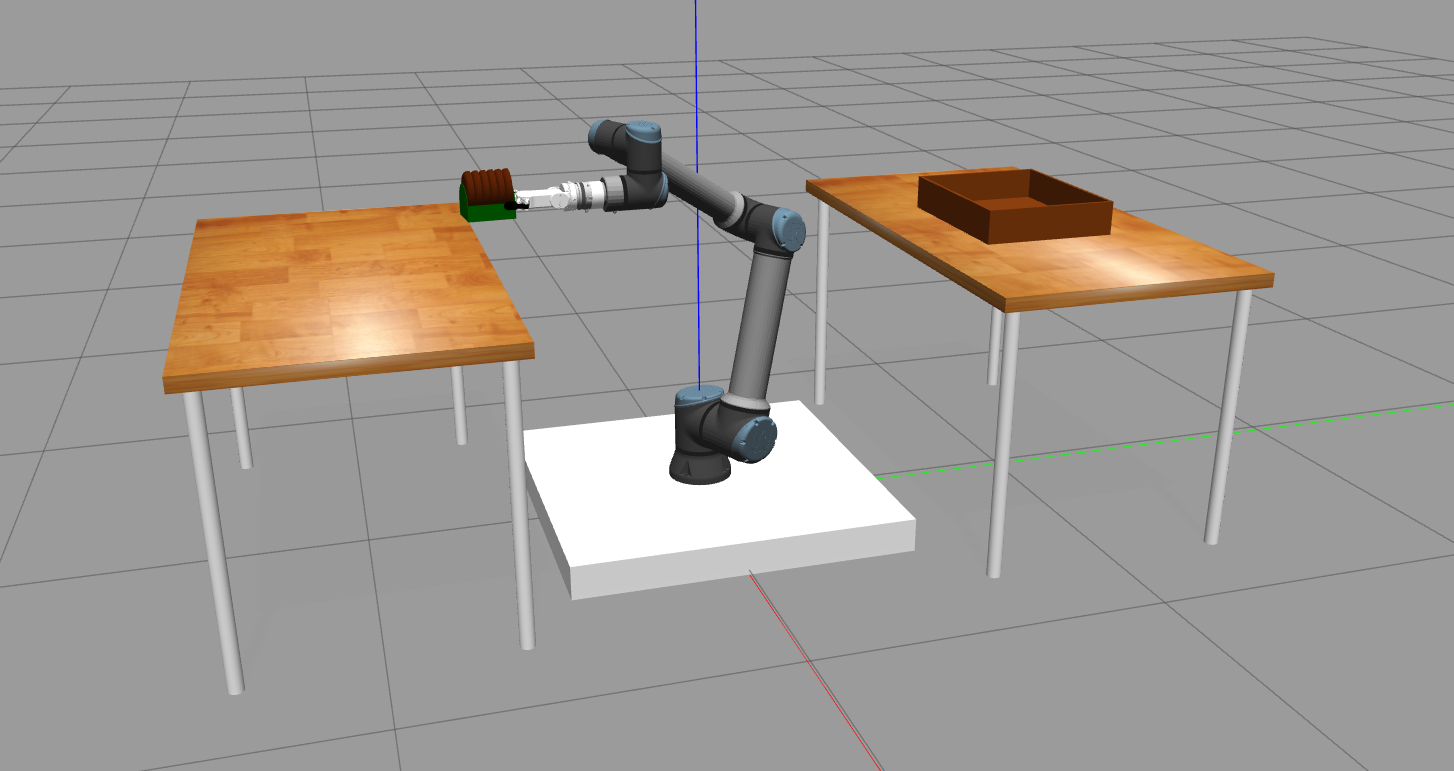
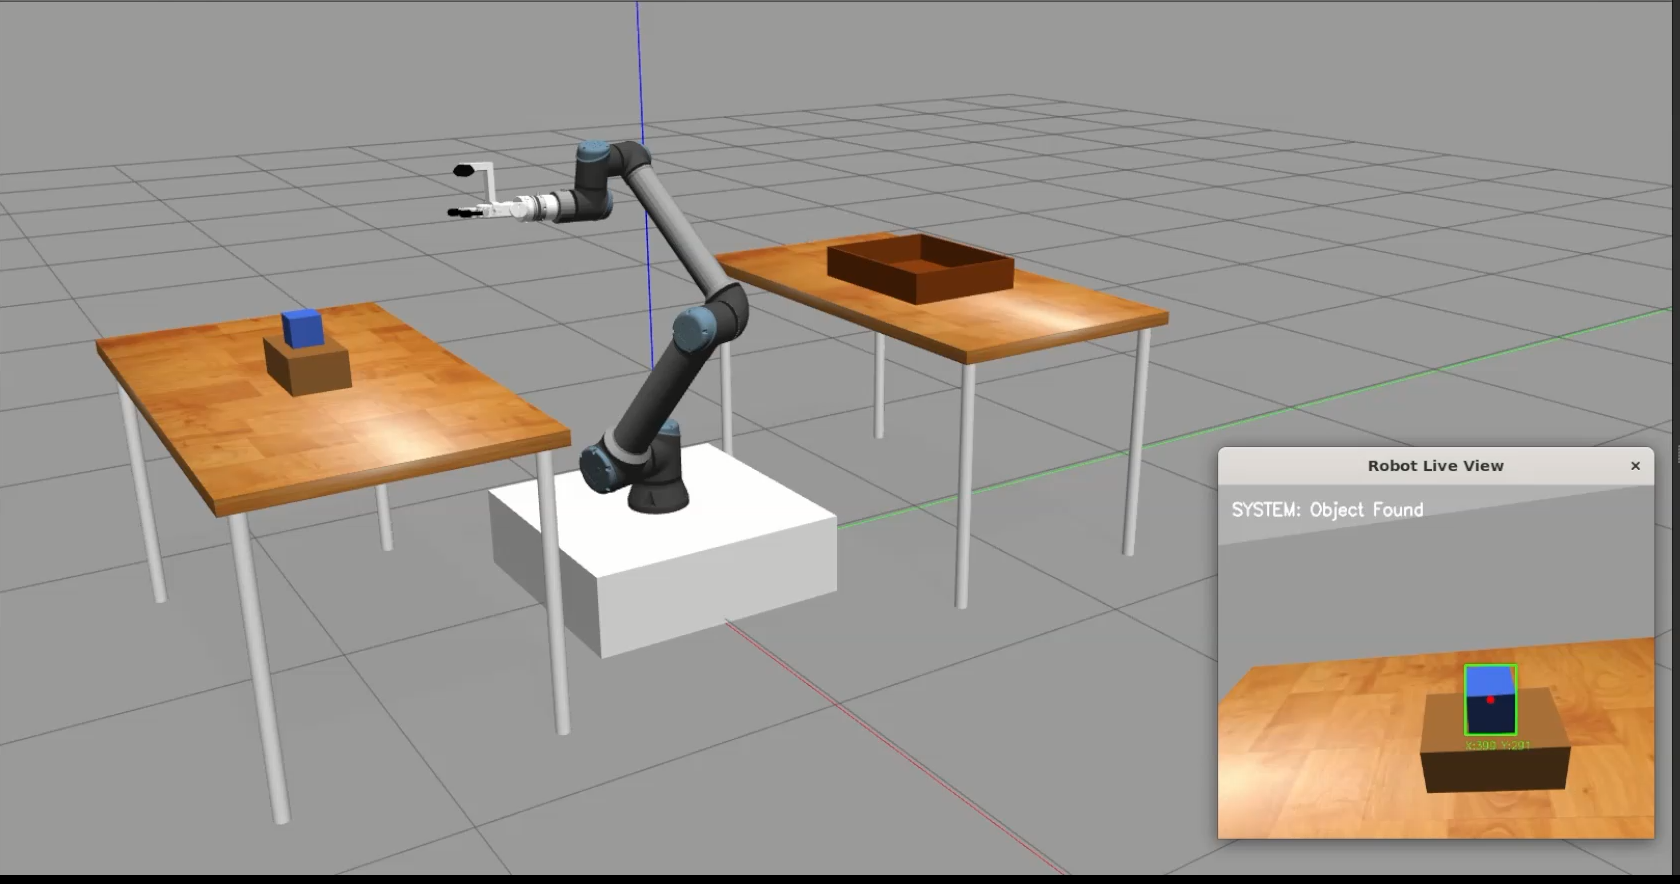
readme updated

diff --git a/README.md b/README.md
@@ -6,16 +6,21 @@
 Prototype ROS/Gazebo simulation using HSV colour space.
 
 ## Features
+- Vision-based object detection using HSV color space
+- 2D to 3D pose estimation using RGB-D data
+- Coordinate transformation from camera frame to world frame
 - Basic motion planning (joint + Cartesian)
 - Grasping via Gazebo link attacher
-- Simplified industrial workflow
+- Simplified industrial pick-and-place workflow
 
 ## Limitations / Next Steps
-- No perception integration yet
-- Grasping not robust to pose variation
-- Could be improved with MoveIt pipeline + vacuum gripper model
+- Object detection relies on HSV color thresholding, which is sensitive to lighting changes and requires manual tuning.
+- The system assumes a controlled environment with clearly distinguishable object colors.
+- Depth-based Z estimation is affected by sensor noise and edge artifacts.
+- No semantic understanding of objects (only color-based detection is used).
+- Replace HSV-based segmentation with learning-based object detection (e.g., YOLO) for improved robustness.
 # ROS1_UR10e Workspace
-A ROS1 workspace for controlling the ur10e and OnRobot attachments.
+A ROS1 workspace for controlling the ur10e cobot with paired together with a RGBD sensor.
 Ensure the UR description package is installed and sourced
 ```bash
 sudo apt install ros-noetic-ur-description
